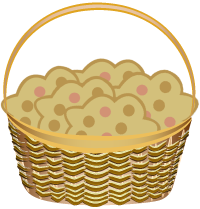
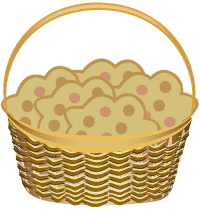
Images compressed/interlaced; coinwidget url fixed.

diff --git a/Ani/coinwidget/coin.js b/Ani/coinwidget/coin.js
@@ -37,7 +37,7 @@ var CoinWidgetComCounter = 0;
 
 if (typeof CoinWidgetCom != 'object')
 var CoinWidgetCom = {
-	source: 'http://coinwidget.com/widget/'
+	source: 'coinwidget/'
 	, config: []
 	, go :function(config) {
 		config = CoinWidgetCom.validate(config);
